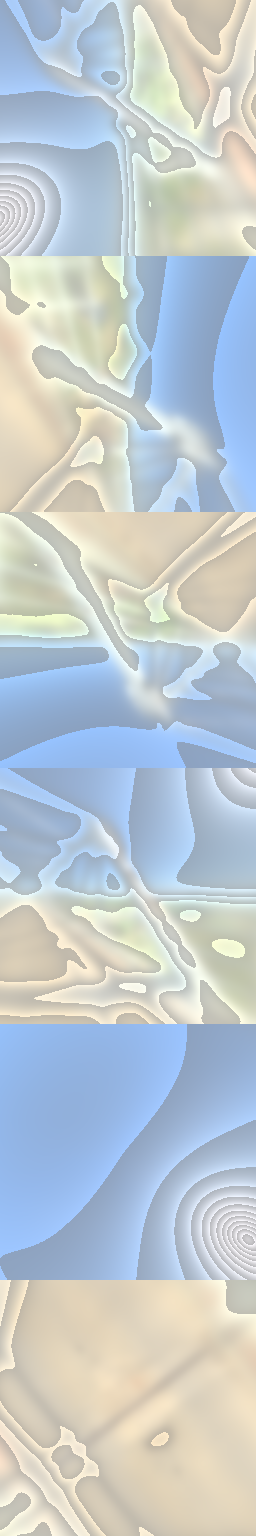
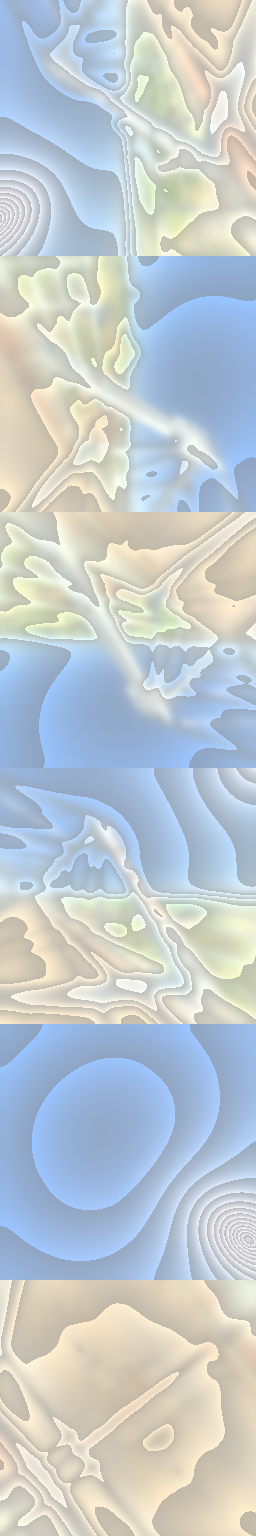
analytical GGX convolution solution

diff --git a/NoireEngine2/src/renderer/scene/Scene.cpp b/NoireEngine2/src/renderer/scene/Scene.cpp
@@ -453,7 +453,7 @@ void Scene::AddSkybox(const std::string& path, SkyboxType type)
 		m_Skybox = ImageCube::Create(sceneRootAbsolutePath.parent_path() / path);
 		m_SkyboxLambertian = ImageCube::Create(sceneRootAbsolutePath.parent_path() / lambertianPath);
 		// dont create mip maps. Will create manually
-		m_PrefilteredEnvMap = ImageCube::Create(sceneRootAbsolutePath.parent_path() / path, true, VK_FILTER_LINEAR, VK_SAMPLER_ADDRESS_MODE_CLAMP_TO_EDGE, true, false);
+		m_PrefilteredEnvMap = ImageCube::Create(sceneRootAbsolutePath.parent_path() / path);
 		break;
 	case SkyboxType::RGB:
 		m_Skybox = ImageCube::Create(sceneRootAbsolutePath.parent_path() / path, false);
@@ -466,11 +466,13 @@ void Scene::AddSkybox(const std::string& path, SkyboxType type)
 
 	// load prefiltered environment maps into the mip levels of the big environment map
 	{
+		m_PrefilteredEnvMap->TransitionLayout(VK_IMAGE_LAYOUT_UNDEFINED, VK_IMAGE_LAYOUT_TRANSFER_DST_OPTIMAL, VK_IMAGE_ASPECT_COLOR_BIT);
 		for (int i = 1; i < GGX_MIP_LEVELS; i++) {
 			std::string ggxPath = substr + ".ggx-" + std::to_string(i) + ".png";
 			Bitmap bitmap(sceneRootAbsolutePath.parent_path() / ggxPath, true); // load a raw bitmap
 			m_PrefilteredEnvMap->SetPixels(bitmap.data.get(), 6, 0, i); // copy bitmap as buffer into image mip level
 		}
+		m_PrefilteredEnvMap->TransitionLayout(VK_IMAGE_LAYOUT_TRANSFER_DST_OPTIMAL, m_PrefilteredEnvMap->getLayout(), VK_IMAGE_ASPECT_COLOR_BIT);
 	}
 }
 

diff --git a/NoireEngine2/src/backend/images/ImageCube.cpp b/NoireEngine2/src/backend/images/ImageCube.cpp
@@ -73,9 +73,9 @@ void ImageCube::SetPixels(const uint8_t* pixels, uint32_t layerCount, uint32_t b
 	memcpy(data, pixels, bufferStaging.getSize());
 	bufferStaging.UnmapMemory();
 
-	TransitionImageLayout(image, format, VK_IMAGE_LAYOUT_UNDEFINED, VK_IMAGE_LAYOUT_TRANSFER_DST_OPTIMAL, VK_IMAGE_ASPECT_COLOR_BIT, mipLevels, 0, arrayLayers, 0);
+	//TransitionImageLayout(image, format, VK_IMAGE_LAYOUT_UNDEFINED, VK_IMAGE_LAYOUT_TRANSFER_DST_OPTIMAL, VK_IMAGE_ASPECT_COLOR_BIT, mipLevels, 0, arrayLayers, 0);
 	CopyBufferToImage(bufferStaging.getBuffer(), image, copyExtent, layerCount, baseArrayLayer, miplevel);
-	TransitionImageLayout(image, format, VK_IMAGE_LAYOUT_TRANSFER_DST_OPTIMAL, layout, VK_IMAGE_ASPECT_COLOR_BIT, mipLevels, 0, arrayLayers, 0);
+	//TransitionImageLayout(image, format, VK_IMAGE_LAYOUT_TRANSFER_DST_OPTIMAL, layout, VK_IMAGE_ASPECT_COLOR_BIT, mipLevels, 0, arrayLayers, 0);
 
 	bufferStaging.Destroy();
 }

diff --git a/NoireEngine2/src/backend/images/Image.hpp b/NoireEngine2/src/backend/images/Image.hpp
@@ -64,6 +64,8 @@ public:
 	static void TransitionImageLayout(const VkImage& image, VkFormat format, VkImageLayout srcImageLayout, VkImageLayout dstImageLayout,
 		VkImageAspectFlags imageAspect, uint32_t mipLevels, uint32_t baseMipLevel, uint32_t layerCount, uint32_t baseArrayLayer);
 
+	void TransitionLayout(VkImageLayout srcLayout, VkImageLayout dstLayout, VkImageAspectFlags aspect);
+
 	static void InsertImageMemoryBarrier(const CommandBuffer& commandBuffer, const VkImage& image, VkAccessFlags srcAccessMask, VkAccessFlags dstAccessMask,
 		VkImageLayout oldImageLayout, VkImageLayout newImageLayout, VkPipelineStageFlags srcStageMask, VkPipelineStageFlags dstStageMask,
 		VkImageAspectFlags imageAspect, uint32_t mipLevels, uint32_t baseMipLevel, uint32_t layerCount, uint32_t baseArrayLayer);

diff --git a/NoireEngine2/src/backend/images/Image.cpp b/NoireEngine2/src/backend/images/Image.cpp
@@ -338,6 +338,11 @@ void Image::TransitionImageLayout(const VkImage& image, VkFormat format, VkImage
 	commandBuffer.SubmitIdle();
 }
 
+void Image::TransitionLayout(VkImageLayout srcLayout, VkImageLayout dstLayout, VkImageAspectFlags aspect)
+{
+	TransitionImageLayout(image, format, srcLayout, dstLayout, aspect, mipLevels, 0, arrayLayers, 0);
+}
+
 void Image::InsertImageMemoryBarrier(const CommandBuffer& commandBuffer, const VkImage& image, VkAccessFlags srcAccessMask, VkAccessFlags dstAccessMask,
 	VkImageLayout oldImageLayout, VkImageLayout newImageLayout, VkPipelineStageFlags srcStageMask, VkPipelineStageFlags dstStageMask,
 	VkImageAspectFlags imageAspect, uint32_t mipLevels, uint32_t baseMipLevel, uint32_t layerCount, uint32_t baseArrayLayer) 

diff --git a/NoireEngine2/src/backend/images/ImageCube.hpp b/NoireEngine2/src/backend/images/ImageCube.hpp
@@ -10,6 +10,8 @@ class Bitmap;
 
 class ImageCube : public Image, public Resource {
 public:
+	ImageCube() = default;
+
 	static std::shared_ptr<ImageCube> Create(const std::filesystem::path& filename, bool usingHDR = true, VkFilter filter = VK_FILTER_LINEAR,
 		VkSamplerAddressMode addressMode = VK_SAMPLER_ADDRESS_MODE_CLAMP_TO_EDGE, bool anisotropic = true, bool mipmap = true);
 
@@ -45,4 +47,5 @@ private:
 	friend Node& operator<<(Node& node, const ImageCube& image);
 
 	void Load(std::unique_ptr<Bitmap> loadBitmap = nullptr);
+
 };

diff --git a/NoireEngine2/src/renderer/utils/GGXSpecularEnvironmentBaker.cpp b/NoireEngine2/src/renderer/utils/GGXSpecularEnvironmentBaker.cpp
@@ -138,7 +138,7 @@ void GGXSpecularEnvironmentBaker::ExecuteComputeShader()
 
 void GGXSpecularEnvironmentBaker::SaveAsImage(glm::uvec2 dim)
 {
-    std::string out = specs->outFile.substr(0, specs->outFile.length() - 4) + "." + std::to_string(miplevel) + ".png";
+    std::string out = specs->outFile.substr(0, specs->outFile.length() - 4) + ".ggx-" + std::to_string(miplevel) + ".png";
     storageImg->SaveAsPNG(out, { dim.x, dim.y * 6 });
     NE_INFO("Written to:{}", Files::Path(out, false));
 }

diff --git a/NoireEngine2/src/renderer/utils/IBLEntrypoint.cpp b/NoireEngine2/src/renderer/utils/IBLEntrypoint.cpp
@@ -35,11 +35,7 @@
 static IBLUtilsApplication* CreateApplication(ApplicationCommandLineArgs args)
 {
     IBLUtilsApplicationSpecification spec;
-    spec.inFile = "../scenes/examples/ox_bridge_morning.png";
-    spec.isGGX = true;
-    spec.outFile = "../scenes/examples/test.png";
-
-    //Parse(args, spec);
+    Parse(args, spec);
 
     return new IBLUtilsApplication(spec);
 }

diff --git a/NoireEngine2/src/renderer/utils/IBLUtilsApplication.cpp b/NoireEngine2/src/renderer/utils/IBLUtilsApplication.cpp
@@ -19,7 +19,6 @@ void IBLUtilsApplication::Run()
     {
         GGXSpecularEnvironmentBaker baker(&specs);
         baker.Run();
-
         NE_INFO("Baking GGX importance sampled environmental map");
 
         EnvironmentBRDFBaker brdfBaker(&specs);
